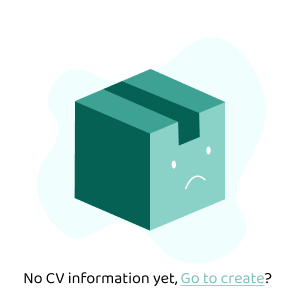
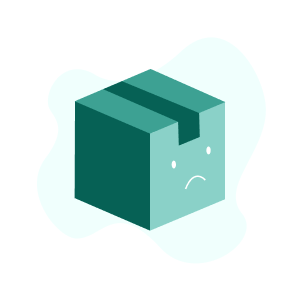
添加了cv界面

Changed region(s): [[0.06, 0.9, 0.9, 0.96]]

diff --git a/src/pages/mine/cv/index.vue b/src/pages/mine/cv/index.vue
@@ -2,14 +2,43 @@
   <view
     :class="[ namespace ]"
   >
-    <tino-status-bar />
+    <tino-status-bar color="#000" statusColor="#fff"/>
+
+		<tino-navigator color="#5C5D79">Resume</tino-navigator>
+
+    <view class="img_view">
+      <tino-avatar :src="useImageFile('Frame.png')" width="600rpx" height="600rpx"/>
+      <view>No CV information yet, 
+        <navigator url="/pages/mine/cv/aboutme/index" style="color: #7CBEBB;text-decoration: underline;display: inline-block;">Go to create</navigator>?
+      </view>
+    </view>
   </view>
 </template>
 
 <script lang="ts" setup>
-
-import { useNamespace } from '@/hooks'
+import { useImageFile , useNamespace} from '@/hooks';
 
 const namespace = useNamespace('cv')
 
+
 </script>
+
+<style lang="scss" scoped>
+.#{$prefix}-cv {
+  .img_view{
+    width: 600rpx;
+    height: 600rpx;
+    position: absolute;
+    display: flex;
+    flex-direction: column;
+    justify-content: center;
+    align-items: center;
+    top: 50%;
+    left: 50%;
+    transform: translate(-50%, -50%);
+  }
+  text{
+    margin-top: -55.2rpx;
+  }
+}
+</style>

diff --git a/src/pages/mine/cv/aboutme/index.vue b/src/pages/mine/cv/aboutme/index.vue
@@ -1,0 +1,10 @@
+<template>
+  <div>about me</div>
+</template>
+
+<script lang="ts" setup>
+
+</script>
+
+<style lang="scss" scoped>
+</style>
